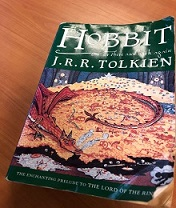
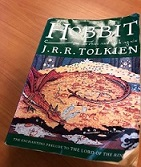
Add files via upload

diff --git a/styles.css b/styles.css
@@ -238,13 +238,14 @@ h3 a:hover {
     display: flex;
     flex-direction: column;
     align-items: center;
-    margin: 0 150px
+    margin-left: 300px;
 }
 
 .small-img {
     display: flex;
     flex-direction: column;
     justify-content: space-between;
+    margin-left: 100px;
 }
 
 .small-img-effect:hover {
@@ -256,7 +257,7 @@ h3 a:hover {
     display: flex;
     flex-direction: column;
     justify-content: center;
-    margin: 0 0 0 300px;
+    margin-left: 200px;
 }
 
 .price button {
@@ -291,6 +292,8 @@ h3 a:hover {
     .small-img {
         display: flex;
         flex-direction: row;
+        justify-content: center;
+        margin: 0;
     }
 
     .price {

diff --git a/Detail-TheHobbit.html b/Detail-TheHobbit.html
@@ -45,7 +45,7 @@
             <h1 class="main_h1">The Hobbit</h1>
             <div class="book-detail-container">
                 <div class="main-img">
-                    <img src="images/TheHobbit/The_Hobbit_large.jpg" alt="The_Hobbit_large">
+                    <img src="images/TheHobbit/The_Hobbit.jpg" alt="The_Hobbit">
                     <p>Author: J.R.R. Tolkien</p>
                 </div>
                 <div class="small-img">
